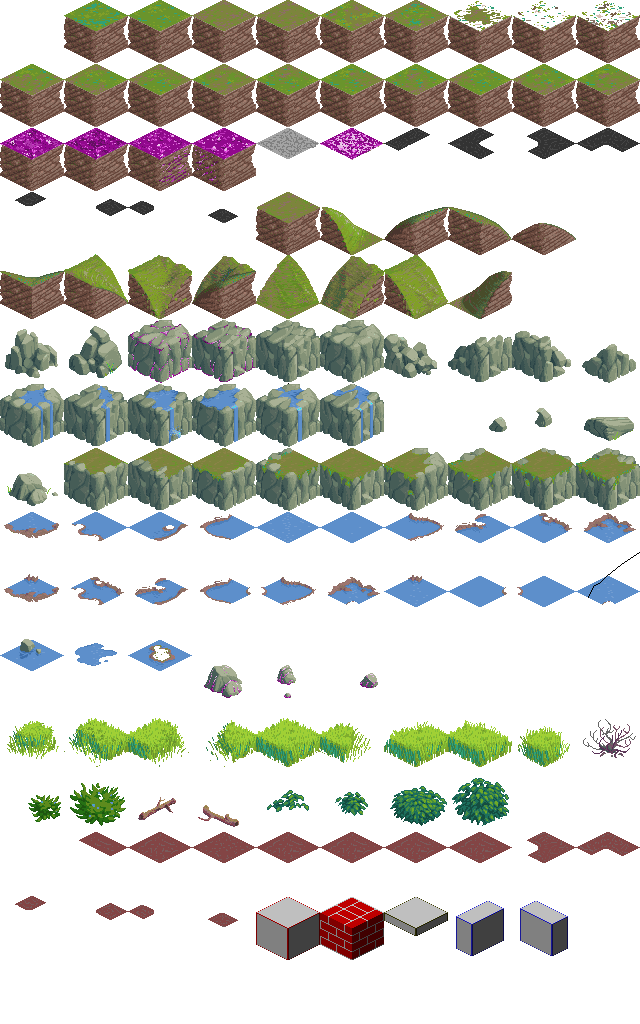
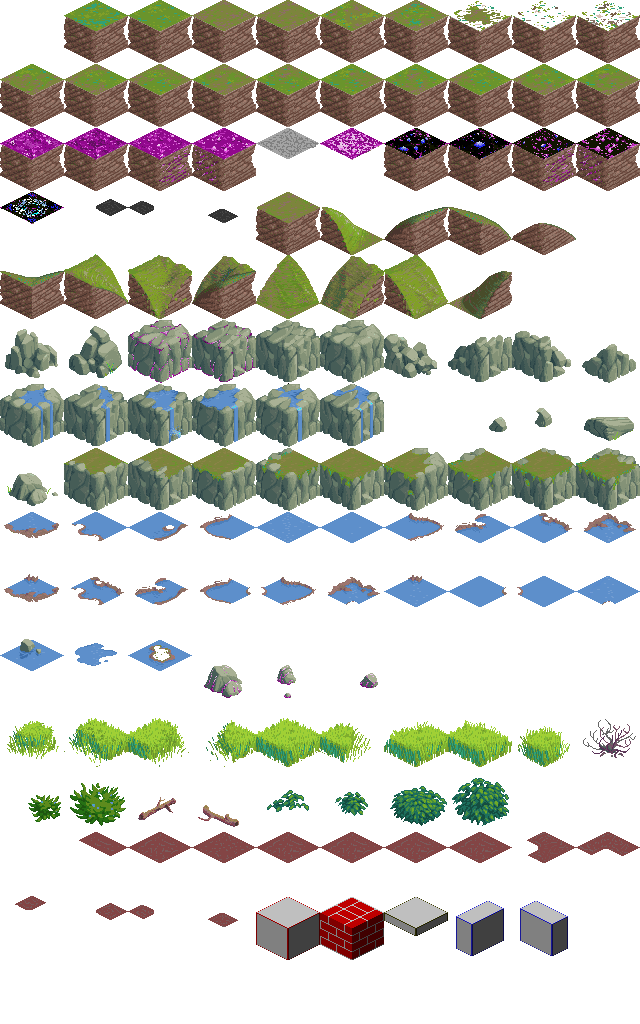
ajustes de los mapas + mapa 5

Changed region(s): [[0.5938, 0.125, 1.0, 0.1875], [0.0, 0.1875, 0.0938, 0.2188]]

diff --git a/ProyectoH/src/systems/mapSystem.cpp b/ProyectoH/src/systems/mapSystem.cpp
@@ -87,36 +87,36 @@ void mapSystem::loadTile(const tmx::Map& map, const tmx::TileLayer& layer) {
 				((layer.getOffset().y + (i + j) / 2)) / sep);
 
 			//std::cout << tile.ID << std::endl;
-			if (tile.ID == 3 || tile.ID == 2 || tile.ID == 133 || 
-				tile.ID == 9 ||tile.ID == 10 ||tile.ID == 8 ||tile.ID == 25
-				|| tile.ID == 134 ||(tile.ID > 20 && tile.ID < 25) ||
-			    tile.ID == 26){
-
-				entityTile = mngr_->addEntity(_grp_TILES_L1);
+			
+			 if (tile.ID > 102 && tile.ID < 129) {//elementos decoracion
+				entityTile = mngr_->addEntity(_grp_TOWERS_AND_ENEMIES);
 				Cell* c = new Cell();
 				c->position = { tilePosition.getX() + 48, tilePosition.getY() + 24 };
-				c->isFree = true;
-				c->id = TILE_LOW;
-				net->setCell(fil - 1, col - 1, c);
+				c->isFree = false;
+				c->id = TILE_LAKE;
+				net->setCell(fil, col, c);
 			}
-			else if (tile.ID > 80 && tile.ID < 100) {
+			 else if (tile.ID == 3 || tile.ID == 2 || tile.ID == 133 ||//pradera
+				 tile.ID == 9 || tile.ID == 10 || tile.ID == 8
+				 || tile.ID == 134 || (tile.ID > 20 && tile.ID < 32)) {
+
+				 entityTile = mngr_->addEntity(_grp_TILES_L1);
+				 Cell* c = new Cell();
+				 c->position = { tilePosition.getX() + 48, tilePosition.getY() + 24 };
+				 c->isFree = true;
+				 c->id = TILE_LOW;
+				 net->setCell(fil - 1, col - 1, c);
+			}
+			else if (tile.ID > 80 && tile.ID < 100) {//lago
 				entityTile = mngr_->addEntity(_grp_TILES_L2);
 				Cell* c = new Cell();
 				c->position = { tilePosition.getX() + 48, tilePosition.getY() + 24 };
 				c->isFree = false;
 				c->id = TILE_LAKE;
 				net->setCell(fil - 1, col - 1, c);
-			}
-			else if (tile.ID > 102 && tile.ID < 129) {//elementos decoracion
-				entityTile = mngr_->addEntity(_grp_TOWERS_AND_ENEMIES);
-				Cell* c = new Cell();
-				c->position = { tilePosition.getX() + 48, tilePosition.getY() + 24 };
-				c->isFree = false;
-				c->id = TILE_LAKE;
-				net->setCell(fil, col , c);
-			}
+			}			
 			else {
-				entityTile = mngr_->addEntity(_grp_TILES_L3);
+				entityTile = mngr_->addEntity(_grp_TILES_L3);//montaña
 				Cell* c = new Cell();
 				c->position = { tilePosition.getX() + 48, tilePosition.getY() + 24 };
 				c->isFree = true;

diff --git a/ProyectoH/src/systems/mapSystem.h b/ProyectoH/src/systems/mapSystem.h
@@ -41,7 +41,7 @@ private:
 	tmx::FloatRect m_globalBounds;
 	NetMap* net;
 	Vector2D tileSize_;
-	unsigned int level = 4;
+	unsigned int level = 5;
 
 	std::string filename;
 
